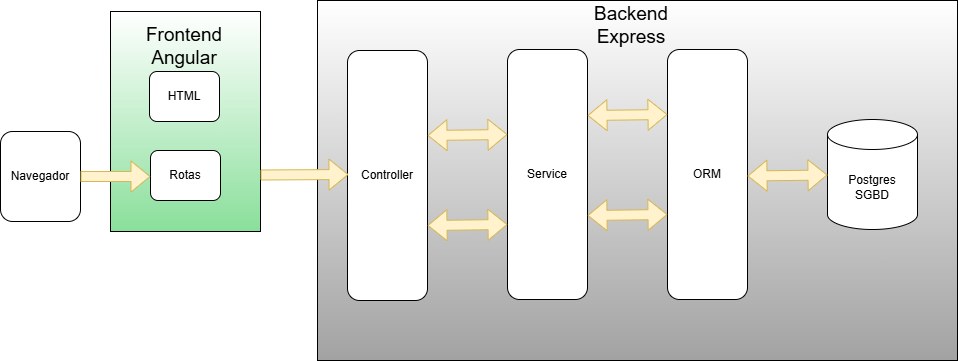
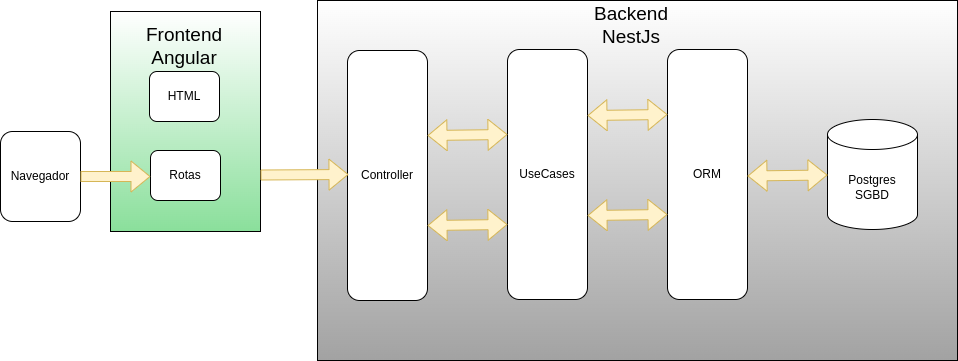
fix: ajustes nos documentos relacionados a arquitetura (#14)

diff --git a/docs/doc-arquitetura.md b/docs/doc-arquitetura.md
@@ -22,9 +22,9 @@ Interoperabilidade | 1. Deve ser desenvolvido no sistema linux, criando uma imag
 | Mecanismo de Análise | Mecanismo de Design  | Mecanismo de Implementação |
 | -------------------- | -------------------- | -------------------------- |
 | Persistência         | Banco de dados relacional | PostgreSQL 16       |
-| Camada de Dados      | Mapeamento OR             | Prisma ORM            |
+| Camada de Dados      | Mapeamento ORM             | Prisma ORM            |
 | Frontend  | Interface Usuário | Angular, HTML5, JS |
-| Backend              | REST                  | ExpressJs     |
+| Backend              | REST                  | NestJS     |
 | Build                | Imagem Docker            | Docker e Dockerfile    |
 | Deploy               | Container Docker         | Docker compose         |
 
